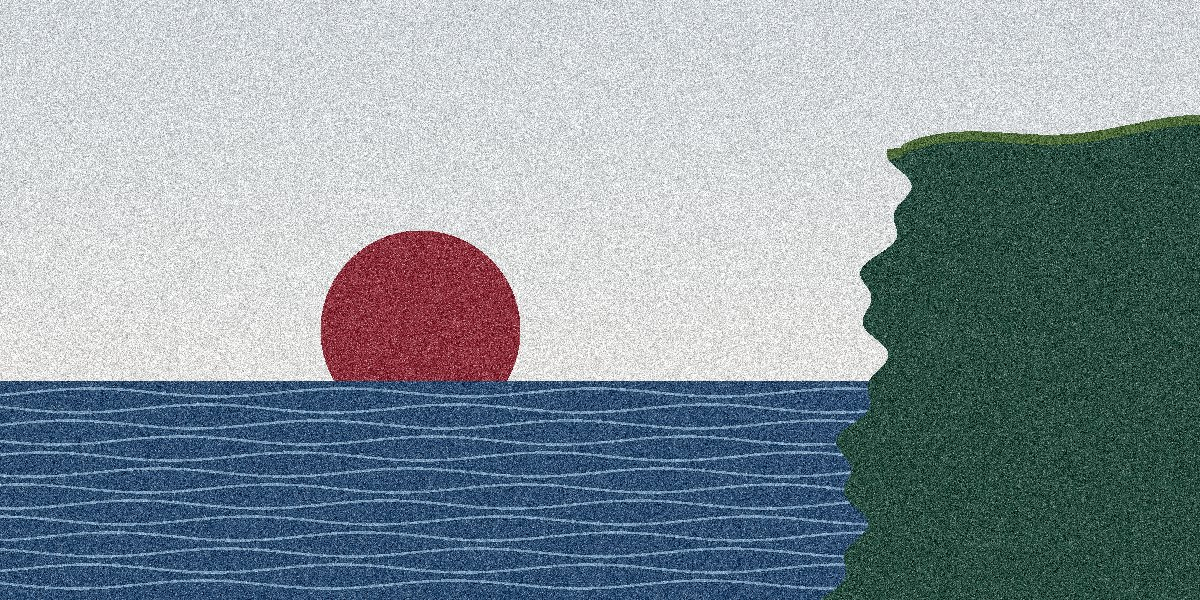
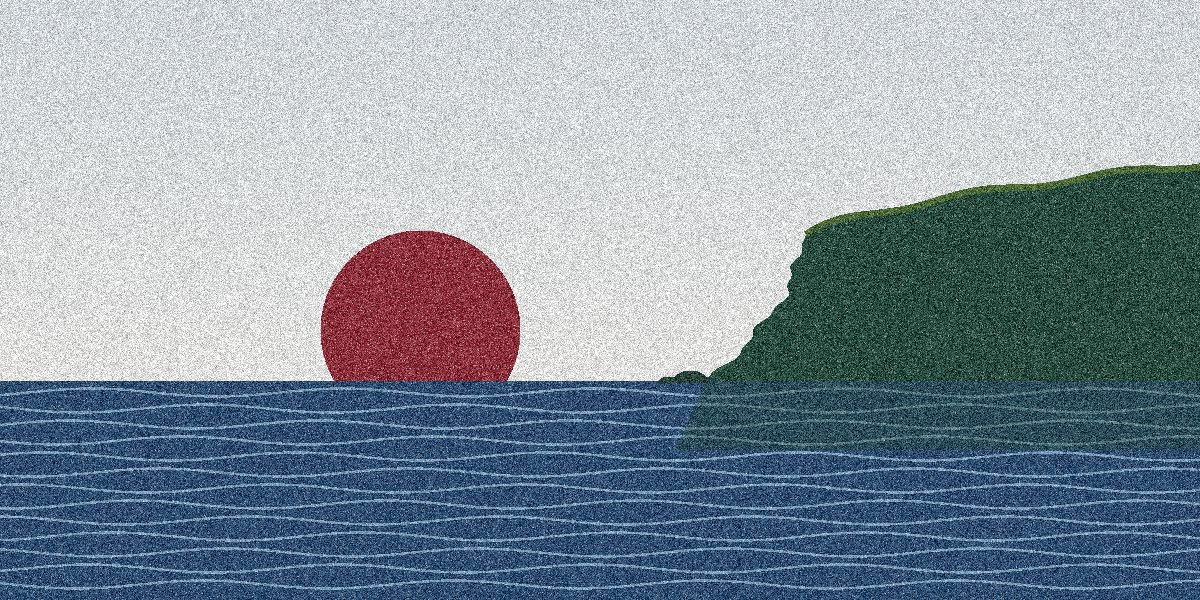
Redraw the cliff in Thursday's cliff coast image
Claude-Session: https://claude.ai/code/session_01CPFfiZz4rjPwAdTY8Ptavd

Changed region(s): [[0.555, 0.18, 1.0, 1.0]]

diff --git a/art/thu/make.py b/art/thu/make.py
@@ -78,11 +78,18 @@ img=sky(SKYB*0.3+PAPER*0.7,PAPER,1.0); sun(img,420,330,100)
 sea=Y>380; stip(img,sea,PRUSSIAN,0.92)
 for y in range(392,H,16):
     row=(np.abs(Y-(y+4*np.sin(X/40+y)))<1.2)&sea; img[row]=SKYB
-edge=900+ (np.clip(Y-150,0,None))**0.85*-0.35 + 14*np.sin(Y/26) + 8*np.sin(Y/9)
-topline=150+30*np.clip((X-900)/300,0,1)**0.5*-1+6*np.sin(X/40)
-cl=(X>edge)&(Y>topline)
+yy=Y.astype(float); xx=X.astype(float)
+hz=380
+face=800 - 95*np.clip((yy-240)/(hz-240),0,1)**1.8 + 4*np.sin(yy/9) + 2*np.sin(yy/3.3)
+top=242 - 82*np.clip((xx-795)/405,0,1)**0.55 + 3*np.sin(xx/23)
+cl=(xx>face)&(yy>top)&(yy<=hz)
 stip(img,cl,PINE,0.94)
-grass=cl&(Y<topline+10); img[grass]=MOSS
+grass=cl&(yy<top+7); img[grass]=MOSS
+ref=(yy>hz)&(yy<hz+70)&(xx>800-95-30*((yy-hz)/70))
+img[ref]=img[ref]*0.55+PINE*0.45
+for rx,ry,rr in [(690,hz+2,12),(668,hz+3,7)]:
+    rock=((xx-rx)**2/(rr*1.5)**2+(yy-ry)**2/rr**2<1)&(yy<=hz+2)
+    img[rock]=PINE*0.8+INK*0.2
 save(img,'thu_06.jpg')
 
 # 07 Rain over hills: soft mist bands and slanted rain, muted sun
